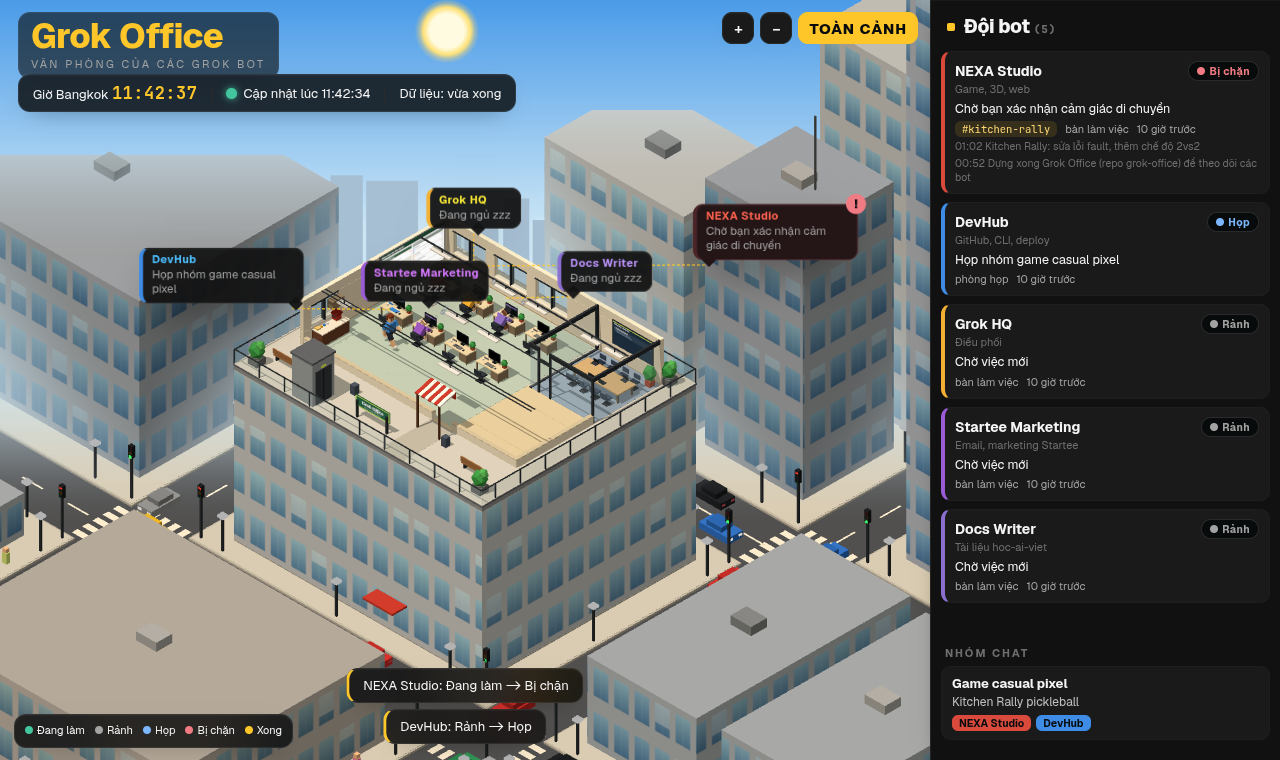
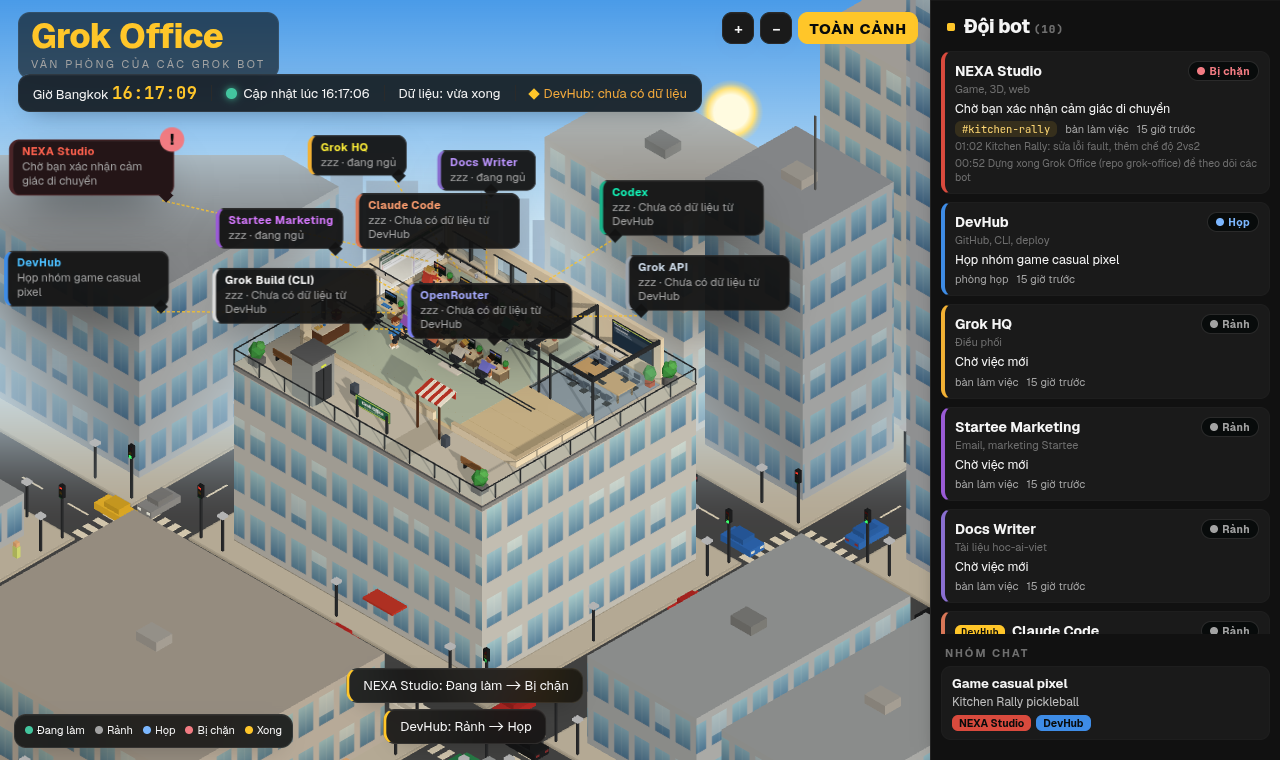
Link Grok Office to NEXA DevHub: 10 desks, DevHub agents (claude, codex, grok-build, grok, openrouter) with live/stale/down/fallback status, ?devhub=URL, HUD chip, tests

diff --git a/office.js b/office.js
@@ -6,7 +6,7 @@ const CONFIG = {
   walkSpeed: 3.0,
   office: { x0: -9, x1: 10, z0: -6, z1: 7, wallH: 3.4 },
   cam: { yawDeg: 45, pitchDeg: 35, focusZoom: 0.36 },
-  desk: { cols: [-6.6, -3.8, -1.0, 1.8], rows: [-3.4, 0.9], laneA: -0.85, laneB: 3.2, laneX: 3.5 },
+  desk: { cols: [-7.3, -5.0, -2.7, -0.4, 1.9], rows: [-3.4, 0.9], laneA: -0.85, laneB: 3.2, laneX: 3.5 },
   wander: { first: [5, 11], every: [16, 32], coffee: [6, 10] },
   sep: { radius: 1.0, max: 0.75, spawnGap: 1.4 } // min distance between avatars, max sidestep, delay between entrances
 };
@@ -50,6 +50,7 @@ function wrapText(ctx, text, maxW, maxLines) {
 // ================================================================ VENUE (island + office diorama)
 const O = CONFIG.office, D = CONFIG.desk;
 const COFFEE_Z = [4.3, 5.1, 5.9];
+const SLOTS = CONFIG.desk.cols.length * 2;   // 10 desks: 5 Grok bots + 5 DevHub agents
 const slotPos = (i) => { const col = i >> 1, row = i & 1; return { x: D.cols[col], z: D.rows[row], row }; };
 const MEET = { x: 7.6, z: -3.05 };
 const MEET_SEATS = (() => {
@@ -66,7 +67,7 @@ class Venue {
     this.slab(B, F); this.floor(B); this.walls(B, F); this.meeting(B, F); this.coffee(B); this.props(B); this.ceiling(B);
     scene.add(B.build(MAT_V));
     const glass = F.build(MAT_GLASS, false, false); glass.renderOrder = 3; scene.add(glass);
-    for (let i = 0; i < 8; i++) this.slots.push(this.makeDesk(i));
+    for (let i = 0; i < SLOTS; i++) this.slots.push(this.makeDesk(i));
     this.makeBoards(); this.makeGraph();
   }
   // floor plate of the tower: office + lobby terrace with glass railing and the lift
@@ -304,11 +305,11 @@ class Venue {
     const chain = (names) => { for (let k = 0; k < names.length - 1; k++) edge(names[k], names[k + 1]); };
     // lanes
     const laneA = [], laneB = [];
-    for (let c = 0; c < 4; c++) { node('XA' + c, D.cols[c], D.laneA); node('XB' + c, D.cols[c], D.laneB); laneA.push('XA' + c); laneB.push('XB' + c); }
+    for (let c = 0; c < D.cols.length; c++) { node('XA' + c, D.cols[c], D.laneA); node('XB' + c, D.cols[c], D.laneB); laneA.push('XA' + c); laneB.push('XB' + c); }
     node('LA', D.laneX, D.laneA); node('LM', D.laneX, 1.4); node('LB', D.laneX, D.laneB); node('EN', D.laneX, O.z1 + 0.2); node('EP', D.laneX, O.z1 + 2.2); node('EO', -2.3, O.z1 + 3.3);
     chain([...laneA, 'LA']); chain([...laneB, 'LB']); chain(['LA', 'LM', 'LB', 'EN', 'EP', 'EO']);
     // desks
-    for (let i = 0; i < 8; i++) { const p = slotPos(i); node('S' + i, p.x, p.z + 1.0); edge('S' + i, (p.row ? 'XB' : 'XA') + (i >> 1)); }
+    for (let i = 0; i < SLOTS; i++) { const p = slotPos(i); node('S' + i, p.x, p.z + 1.0); edge('S' + i, (p.row ? 'XB' : 'XA') + (i >> 1)); }
     // coffee
     // three distinct standing spots at the counter (CS0..2), each reached from its own approach node (CA0..2)
     this.coffeeSpots = [];
@@ -376,6 +377,11 @@ class Actor {
     this.head = new THREE.Group(); this.head.position.set(0, 0.84, 0); this.upper.add(this.head);
     part(this.head, 0.3, 0.3, 0.3, skin, 0, 0, 0); part(this.head, 0.33, 0.12, 0.33, hair, 0, 0.17, -0.01); part(this.head, 0.33, 0.2, 0.1, hair, 0, 0.04, -0.12);
     part(this.head, 0.05, 0.05, 0.02, 0x222222, 0.07, 0.03, 0.155); part(this.head, 0.05, 0.05, 0.02, 0x222222, -0.07, 0.03, 0.155);
+    if (data.src === 'devhub') {   // DevHub agents: dark visor, antenna with a yellow tip, chest badge
+      part(this.head, 0.32, 0.09, 0.03, 0x101214, 0, 0.03, 0.16); part(this.head, 0.2, 0.02, 0.01, 0xffc629, 0, 0.03, 0.18);
+      part(this.head, 0.03, 0.17, 0.03, 0x2c3138, 0, 0.31, 0); this.tip = part(this.head, 0.08, 0.08, 0.08, 0xffc629, 0, 0.43, 0);
+      part(this.upper, 0.17, 0.11, 0.02, 0xffc629, 0.14, 0.46, 0.16); part(this.upper, 0.09, 0.04, 0.025, 0x101214, 0.14, 0.46, 0.165);
+    }
     this.arms = [];
     for (const sx of [1, -1]) {
       const sh = new THREE.Group(); sh.position.set(sx * 0.36, 0.55, 0); this.upper.add(sh);
@@ -578,6 +584,11 @@ class Rig {
 // ================================================================ DATA (fetch, normalise, diff)
 
 const SRC = QS.get('src') || './status.json';
+// DevHub link: ?devhub=URL (exporter --serve or any devhub-office/1 JSON), default ./devhub-status.json (exporter --push), ?devhub=off to disable
+const DH_RAW = QS.get('devhub'), DEVHUB_SRC = DH_RAW === 'off' ? null : (DH_RAW || './devhub-status.json');
+const DH_STALE_MS = (+QS.get('dhstale') || 300) * 1000, DH_DONE_MS = 180000;
+const DH_BRAND = { claude: '#d97757', codex: '#19b38a', 'grok-build': '#d9d9d9', grok: '#9aa3ad', openrouter: '#7b7ff5' };
+const DH_ROLE = { local_cli: 'Agent CLI', local_sdk: 'Agent SDK', model_api: 'Model API (tư vấn)', external_workflow: 'Workflow ngoài' };
 const POLL_MS = Math.max(2000, (+QS.get('interval') || 0) * 1000 || CONFIG.pollMs);
 const fmtTime = new Intl.DateTimeFormat('vi-VN', { timeZone: 'Asia/Bangkok', hour: '2-digit', minute: '2-digit', second: '2-digit', hour12: false });
 const fmtHM = new Intl.DateTimeFormat('vi-VN', { timeZone: 'Asia/Bangkok', hour: '2-digit', minute: '2-digit', hour12: false });
@@ -595,13 +606,36 @@ function normalize(raw) {
     const state = STATE[b.state] ? b.state : 'idle';
     bots.push({
       id: b.id, name: String(b.name || b.id), role: String(b.role || ''), color: /^#[0-9a-f]{6}$/i.test(b.color) ? b.color : '#' + (hash(b.id) & 0xffffff).toString(16).padStart(6, '0'),
-      state, task: String(b.task || ''), project: String(b.project || ''), room: b.room === 'meeting' ? 'meeting' : 'desk',
+      src: b.src === 'devhub' || /^dh-/.test(b.id) ? 'devhub' : '', note: b.note ? String(b.note) : '', state, task: String(b.task || ''), project: String(b.project || ''), room: b.room === 'meeting' ? 'meeting' : 'desk',
       progress: Number.isFinite(b.progress) ? clamp(Math.round(b.progress), 0, 100) : null, since: b.since || raw.updatedAt || '',
       log: (Array.isArray(b.log) ? b.log : []).filter((l) => l && l.msg).slice(-5).map((l) => ({ t: l.t || '', msg: String(l.msg) }))
     });
   }
   const groups = (Array.isArray(raw.groups) ? raw.groups : []).filter((g) => g && g.id).map((g) => ({ id: String(g.id), name: String(g.name || g.id), members: Array.isArray(g.members) ? g.members.map(String) : [], topic: String(g.topic || ''), active: g.active === true }));
   return { version: raw.version || 1, updatedAt: raw.updatedAt || '', bots, groups };
+}
+
+// DevHub (schema devhub-office/1, written by nexa-devhub/scripts/export-office-status.mjs) -> status.json style bots.
+// mode: 'live' = fresh data, 'stale' = generatedAt too old, 'down' = source unreachable (last roster kept, everyone sleeps).
+function devhubBots(raw, mode, now = Date.now()) {
+  if (!raw || raw.schema !== 'devhub-office/1' || !Array.isArray(raw.agents)) throw new Error('devhub-status.json sai định dạng (cần schema devhub-office/1)');
+  const gen = Date.parse(raw.generatedAt);
+  return raw.agents.filter((a) => a && typeof a.id === 'string').map((a) => {
+    const bot = { id: 'dh-' + a.id, src: 'devhub', name: String(a.name || a.id), color: DH_BRAND[a.id] || '#' + (hash(a.id) & 0xffffff).toString(16).padStart(6, '0'),
+      role: 'DevHub · ' + (DH_ROLE[a.kind] || 'Agent') + (a.model ? ' · ' + a.model : ''), state: 'idle', task: '', project: '', room: 'desk', since: a.lastActivityAt || raw.generatedAt || '', log: [], note: '' };
+    const cur = a.current, last = a.last, fin = last && last.at ? now - Date.parse(last.at) : Infinity;
+    if (last) bot.log.push({ t: last.at, msg: (last.status === 'completed' ? 'Xong: ' : 'Kết thúc (' + last.status + '): ') + (last.title || 'task') });
+    if (mode !== 'live') { bot.note = mode === 'stale' ? 'DevHub chưa gửi dữ liệu mới' : 'Mất kết nối DevHub'; bot.task = bot.note; return bot; }
+    if (a.state === 'unknown') { bot.note = 'Chưa có dữ liệu từ DevHub'; bot.task = bot.note; return bot; }
+    if (a.enabled === false || a.state === 'disabled') { bot.note = 'Đã tắt trong DevHub'; bot.task = bot.note; }
+    else if (a.state === 'unavailable' || a.state === 'failed') { bot.note = a.detail || (a.authenticated === false ? 'Chưa đăng nhập' : 'Chưa sẵn sàng'); bot.task = bot.note; }
+    else if (a.state === 'waiting' || (cur && cur.status === 'waiting_approval')) { bot.state = 'blocked'; bot.task = 'Chờ duyệt: ' + ((cur && cur.title) || 'một thao tác'); }
+    else if (a.state === 'running' || cur) { bot.state = 'working'; bot.task = (cur && cur.title) || 'Đang chạy task'; if (cur) { bot.project = cur.project || ''; bot.since = cur.since || bot.since; } }
+    else if (last && fin < DH_DONE_MS && last.status === 'completed') { bot.state = 'done'; bot.task = 'Xong: ' + (last.title || 'task'); bot.project = last.project || ''; bot.since = last.at; }
+    else if (last && fin < DH_DONE_MS && last.status !== 'cancelled') { bot.state = 'blocked'; bot.task = 'Lỗi: ' + (last.title || last.status); bot.project = last.project || ''; bot.since = last.at; }
+    if (a.queued > 0 && bot.state === 'idle' && !bot.note) bot.note = a.queued + ' task đang chờ';
+    return bot;
+  });
 }
 
 // ================================================================ APP
@@ -673,17 +707,42 @@ class App {
     this.renderer.setSize(w, h, false); this.rig.resize(w, h); this.W = w; this.H = h;
   }
   // ---------------------------------------------------------------- polling
-  async poll() {
+  async fetchJSON(src) {
     const ac = new AbortController(), to = setTimeout(() => ac.abort(), CONFIG.fetchTimeoutMs);
     try {
-      const url = new URL(SRC, location.href); url.searchParams.set('_', Date.now());
+      const url = new URL(src, location.href); url.searchParams.set('_', Date.now());
       const res = await fetch(url, { cache: 'no-store', signal: ac.signal }); if (!res.ok) throw new Error('HTTP ' + res.status);
-      const data = normalize(await res.json()); this.conn.lastOk = Date.now(); this.conn.err = null; this.conn.lastFetch = Date.now();
+      return await res.json();
+    } catch (e) { throw e.name === 'AbortError' ? new Error('hết thời gian chờ') : e; } finally { clearTimeout(to); }
+  }
+  // DevHub half of a poll: live > stale > down (last roster) > bots with src "devhub" already in status.json (manual fallback)
+  async pollDevhub() {
+    const dh = this.dh = this.dh || { state: DEVHUB_SRC ? 'none' : 'off', at: 0, err: null, roster: null, gen: '' };
+    if (!DEVHUB_SRC) return [];
+    try {
+      const raw = await this.fetchJSON(DEVHUB_SRC); devhubBots(raw, 'live');   // validates the schema
+      const age = Date.now() - Date.parse(raw.generatedAt), known = raw.agents.some((a) => a.state !== 'unknown');
+      dh.roster = raw; dh.err = null; dh.at = Date.now(); dh.gen = raw.generatedAt || '';
+      const live = known && isFinite(age) && age <= DH_STALE_MS; dh.state = live ? 'live' : known ? 'stale' : 'waiting';
+      return devhubBots(raw, live || !known ? 'live' : 'stale');
+    } catch (e) {
+      dh.err = e.message;
+      if (dh.roster) { dh.state = 'down'; return devhubBots(dh.roster, 'down'); }
+      dh.state = 'none'; return [];
+    }
+  }
+  async poll() {
+    try {
+      const [raw, dhBots] = await Promise.all([this.fetchJSON(SRC), this.pollDevhub()]);
+      const data = normalize(raw);
+      if (dhBots.length) { const ids = new Set(dhBots.map((b) => b.id)); data.bots = data.bots.filter((b) => !ids.has(b.id)).concat(normalize({ bots: dhBots }).bots); }
+      if (this.dh.state === 'none' && data.bots.some((b) => b.src === 'devhub')) this.dh.state = 'fallback';   // DevHub unreachable: showing the dh-* bots stored in status.json
+      this.conn.lastOk = Date.now(); this.conn.err = null; this.conn.lastFetch = Date.now();
       this.apply(data);
     } catch (e) {
-      this.conn.err = e.name === 'AbortError' ? 'hết thời gian chờ' : e.message; this.conn.lastFetch = Date.now();
+      this.conn.err = e.message; this.conn.lastFetch = Date.now();
       if (!this.data) this.toast('Không tải được dữ liệu: ' + this.conn.err);
-    } finally { clearTimeout(to); this.tickUI(); }
+    } finally { this.tickUI(); }
   }
   apply(data) {
     const prev = this.data, first = !prev, pm = new Map((prev ? prev.bots : []).map((b) => [b.id, b])), events = [];
@@ -737,7 +796,7 @@ class App {
   }
   updateLabelText(id) {
     const l = this.labels.get(id), a = this.actors.get(id); if (!l || !a) return; const b = a.d, el = l.el;
-    el.style.setProperty('--bc', b.color); el.querySelector('b').textContent = b.name; el.querySelector('span').textContent = b.state === 'idle' ? 'Đang ngủ zzz' : (b.task || STATE[b.state].label);
+    el.style.setProperty('--bc', b.color); el.querySelector('b').textContent = b.name; el.querySelector('span').textContent = b.state === 'idle' ? 'zzz' + (b.note ? ' · ' + b.note : ' · đang ngủ') : (b.task || STATE[b.state].label);
     el.querySelector('.ico').textContent = b.state === 'blocked' ? '!' : b.state === 'done' ? '\u2713' : '';
     el.classList.toggle('blocked', b.state === 'blocked'); el.classList.toggle('done', b.state === 'done');
     l.w = el.offsetWidth; l.h = el.offsetHeight;
@@ -748,7 +807,7 @@ class App {
       const st = STATE[b.state];
       const logs = b.log.slice(-2).reverse().map((l) => `<div class="lg">${l.t ? fmtHM.format(new Date(l.t)) + ' ' : ''}${esc(l.msg)}</div>`).join('');
       return `<div class="row${this.selected === b.id ? ' sel' : ''}${flash.includes(b.id) ? ' flash' : ''}" data-id="${esc(b.id)}" style="--bc:${b.color}">
-        <div class="top"><span class="nm">${esc(b.name)}</span><span class="badge" style="color:${UI_COL[b.state]}"><i style="background:${UI_COL[b.state]}"></i>${st.label}</span></div>
+        <div class="top"><span class="nm">${b.src === 'devhub' ? '<span class="chip dh">DevHub</span> ' : ''}${esc(b.name)}</span><span class="badge" style="color:${UI_COL[b.state]}"><i style="background:${UI_COL[b.state]}"></i>${st.label}</span></div>
         <div class="role">${esc(b.role)}</div><div class="task">${esc(b.task || '-')}</div>
         ${b.progress != null ? `<div class="bar"><i style="width:${b.progress}%"></i></div>` : ''}
         <div class="meta">${b.project ? `<span class="chip">#${esc(b.project)}</span>` : ''}<span>${b.room === 'meeting' ? 'phòng họp' : 'bàn làm việc'}</span><span data-since="${esc(b.since)}">${rel(b.since)}</span></div>${logs}</div>`;
@@ -789,6 +848,11 @@ class App {
     if (c.err) { cls = 'err'; tip = 'Lỗi tải: ' + c.err; } else if (c.lastOk && Date.now() - c.lastOk > CONFIG.staleMs) { cls = 'stale'; tip = 'Dữ liệu cũ hơn 60 giây'; } else if (!c.lastOk) { cls = 'stale'; tip = 'Đang kết nối...'; }
     dot.className = cls; dot.title = tip;
     $('#upd').textContent = c.err ? 'Lỗi kết nối' + (c.lastOk ? ' (lần cuối ' + fmtTime.format(new Date(c.lastOk)) + ')' : '') : 'Cập nhật lúc ' + (c.lastOk ? fmtTime.format(new Date(c.lastOk)) : '--:--:--');
+    const dh = this.dh, el = $('#dhstat');
+    if (dh && dh.state !== 'off') {
+      const m = { live: ['ok', 'DevHub: trực tiếp (' + rel(dh.gen) + ')'], waiting: ['warn', 'DevHub: chưa có dữ liệu'], stale: ['warn', 'DevHub: dữ liệu cũ (' + rel(dh.gen) + ')'], down: ['err', 'DevHub: mất kết nối'], fallback: ['warn', 'DevHub: dùng status.json'], none: ['warn', 'DevHub: chưa nối'] }[dh.state] || ['warn', 'DevHub'];
+      el.className = 'hide-m ' + m[0]; el.textContent = m[1]; el.title = (dh.err ? 'Lỗi: ' + dh.err + '. ' : '') + 'Nguồn: ' + (DEVHUB_SRC || '-'); el.previousElementSibling.style.display = '';
+    } else { el.textContent = ''; el.previousElementSibling.style.display = 'none'; }
     if (this.data && this.data.updatedAt) $('#dataAge').textContent = 'Dữ liệu: ' + rel(this.data.updatedAt);
     document.querySelectorAll('[data-since]').forEach((e) => { const v = rel(e.dataset.since); if (e.textContent !== v) e.textContent = v; });
   }

diff --git a/index.html b/index.html
@@ -39,6 +39,9 @@
   #hud { position:absolute; left:50%; top:10px; transform:translateX(-50%); display:flex; align-items:center; gap:14px; padding:7px 14px; font-size:clamp(11px,1.2vw,13px); white-space:nowrap; z-index:3; }
   #hud .sep { width:1px; height:16px; background:var(--color-line); }
   #hud b { font-family:var(--font-mono); font-size:clamp(13px,1.5vw,17px); letter-spacing:.5px; color:var(--color-accent); font-weight:700; }
+  #dhstat::before { content:''; display:inline-block; width:8px; height:8px; margin-right:6px; background:var(--color-accent); transform:rotate(45deg); vertical-align:0; }
+  #dhstat.warn { color:var(--color-warn); } #dhstat.err { color:var(--color-err); } #dhstat.ok { color:var(--color-accent); }
+  .chip.dh { background:var(--color-accent); color:#080B0B; font-weight:700; padding:0 6px; margin-right:4px; }
   #dot { width:11px; height:11px; border-radius:50%; background:var(--color-ok); box-shadow:0 0 8px currentColor; color:var(--color-ok); display:inline-block; vertical-align:-1px; margin-right:6px; }
   #dot.stale { background:var(--color-warn); color:var(--color-warn); } #dot.err { background:var(--color-err); color:var(--color-err); }
   #zoomctl { position:absolute; right:12px; top:12px; display:flex; gap:6px; align-items:center; z-index:3; }
@@ -137,6 +140,7 @@
     <span><span class="hide-m">Giờ Bangkok </span><b id="clock">--:--:--</b></span><span class="sep"></span>
     <span><i id="dot" title="Đang kết nối..."></i><span id="upd">Cập nhật lúc --:--:--</span></span>
     <span class="sep hide-m"></span><span class="hide-m" id="dataAge"></span>
+    <span class="sep hide-m"></span><span class="hide-m" id="dhstat"></span>
   </div>
   <div id="zoomctl"><button id="zin" class="btn panel" aria-label="Phóng to" title="Phóng to">+</button><button id="zout" class="btn panel" aria-label="Thu nhỏ" title="Thu nhỏ">&minus;</button><button id="overview" class="btn primary" title="Về toàn cảnh (nhấp đúp vào cảnh cũng được)">TOÀN CẢNH</button></div>
   <div id="legend" class="panel">

diff --git a/README.md b/README.md
@@ -6,6 +6,39 @@ Văn phòng 3D là một tầng của tòa nhà cao tầng giữa thành phố (
 - Không cần build. Tĩnh hoàn toàn: `index.html`, `office.js`, `status.json`.
 - Three.js r160 tải từ CDN unpkg (giống Kitchen Rally).
 
+## Nối với DevHub (agent Claude Code, Codex, Grok Build, Grok API, OpenRouter)
+
+Office có 10 bàn: 5 cho Grok Bot và 5 cho các agent có sẵn trong [nexa-devhub](https://github.com/Roccat92/nexa-devhub) (id trong DevHub: `claude`, `codex`, `grok-build`, `grok`, `openrouter`). Agent DevHub có ăng-ten vàng, kính che mắt và huy hiệu ở ngực, hiện chip `DevHub` trong danh sách. Trạng thái lấy từ DevHub, nếu không có thì vẫn chạy bằng `status.json`.
+
+```
+daemon DevHub --(script chỉ-đọc trên máy host)--> devhub-status.json  --> Office (poll 10 giây)
+```
+
+Daemon DevHub bắt đăng nhập và chạy trên máy của bạn, còn GitHub Pages là trang tĩnh, nên giữa hai bên cần bộ xuất `scripts/export-office-status.mjs` (nằm trong nexa-devhub, nhánh `feat/grok-office-export`, xem `docs/GROK-OFFICE.md` ở đó). Có hai cách nối:
+
+| Cách | Lệnh trên máy host DevHub | Office đọc từ |
+| --- | --- | --- |
+| A. Đẩy lên repo | `node scripts/export-office-status.mjs --watch 20 --push D:\grok-office` (đặt `NEXA_CODE` trước) | `./devhub-status.json` (mặc định, không cần tham số) |
+| B. Trực tiếp | `node scripts/export-office-status.mjs --serve 4318` | thêm `?devhub=http://127.0.0.1:4318/office-status.json` vào URL (qua Tailscale: dùng URL https của `tailscale serve`) |
+
+Tham số URL: `?devhub=URL` đổi nguồn, `?devhub=off` tắt hẳn, `?dhstale=SỐ_GIÂY` đổi ngưỡng coi dữ liệu là cũ (mặc định 300).
+
+Quy tắc hiển thị (thanh trên cùng có chip `DevHub: ...` cho biết đang ở trạng thái nào):
+
+| DevHub báo | Office | Chip trên cùng |
+| --- | --- | --- |
+| task đang chạy (`running`) | Ngồi gõ phím, hiện tên task và dự án | `trực tiếp` |
+| chờ bạn duyệt (`waiting`) | Bị chặn `!`, "Chờ duyệt: ..." | `trực tiếp` |
+| rảnh (`available`) | Ngủ zzz. Task vừa xong dưới 3 phút thì ăn mừng "Xong", vừa lỗi thì `!` | `trực tiếp` |
+| chưa cài / chưa đăng nhập / tắt | Ngủ zzz kèm lý do | `trực tiếp` |
+| `generatedAt` quá cũ | Tất cả ngủ zzz, "DevHub chưa gửi dữ liệu mới" | `dữ liệu cũ` |
+| không tải được nguồn | Giữ danh sách cũ, tất cả ngủ zzz, "Mất kết nối DevHub" | `mất kết nối` |
+| chưa từng tải được | Dùng các bot `dh-*` có trong `status.json` (cập nhật bằng `update-status.mjs --bot dh-claude ...`) | `dùng status.json` |
+
+File `devhub-status.json` trong repo hiện chỉ là danh sách agent (state `unknown`, không bịa dữ liệu): 5 bàn DevHub ngủ với dòng "Chưa có dữ liệu từ DevHub" cho tới khi bộ xuất ghi đè file này. Định dạng đầy đủ: `schema: "devhub-office/1"`, xem `docs/GROK-OFFICE.md` trong nexa-devhub.
+
+Kiểm thử: `node tests/serve.cjs 8123 &` rồi `node tests/devhub.cjs` (22 kiểm tra), cùng `crowd.cjs`, `dyn.cjs`, `daynight.cjs`, `zoom.cjs`. Ảnh: `shots/devhub-office.png`, `shots/devhub-desks.png`.
+
 ## Dữ liệu: mức 2 (bán thực)
 
 Trang đọc `./status.json` mỗi 10 giây (có tham số chống cache), so sánh với lần trước rồi chạy hoạt ảnh cho phần thay đổi: bot đi bộ sang phòng họp, ngồi gõ phím, hiện dấu `!` khi bị chặn, ăn mừng khi xong việc.
